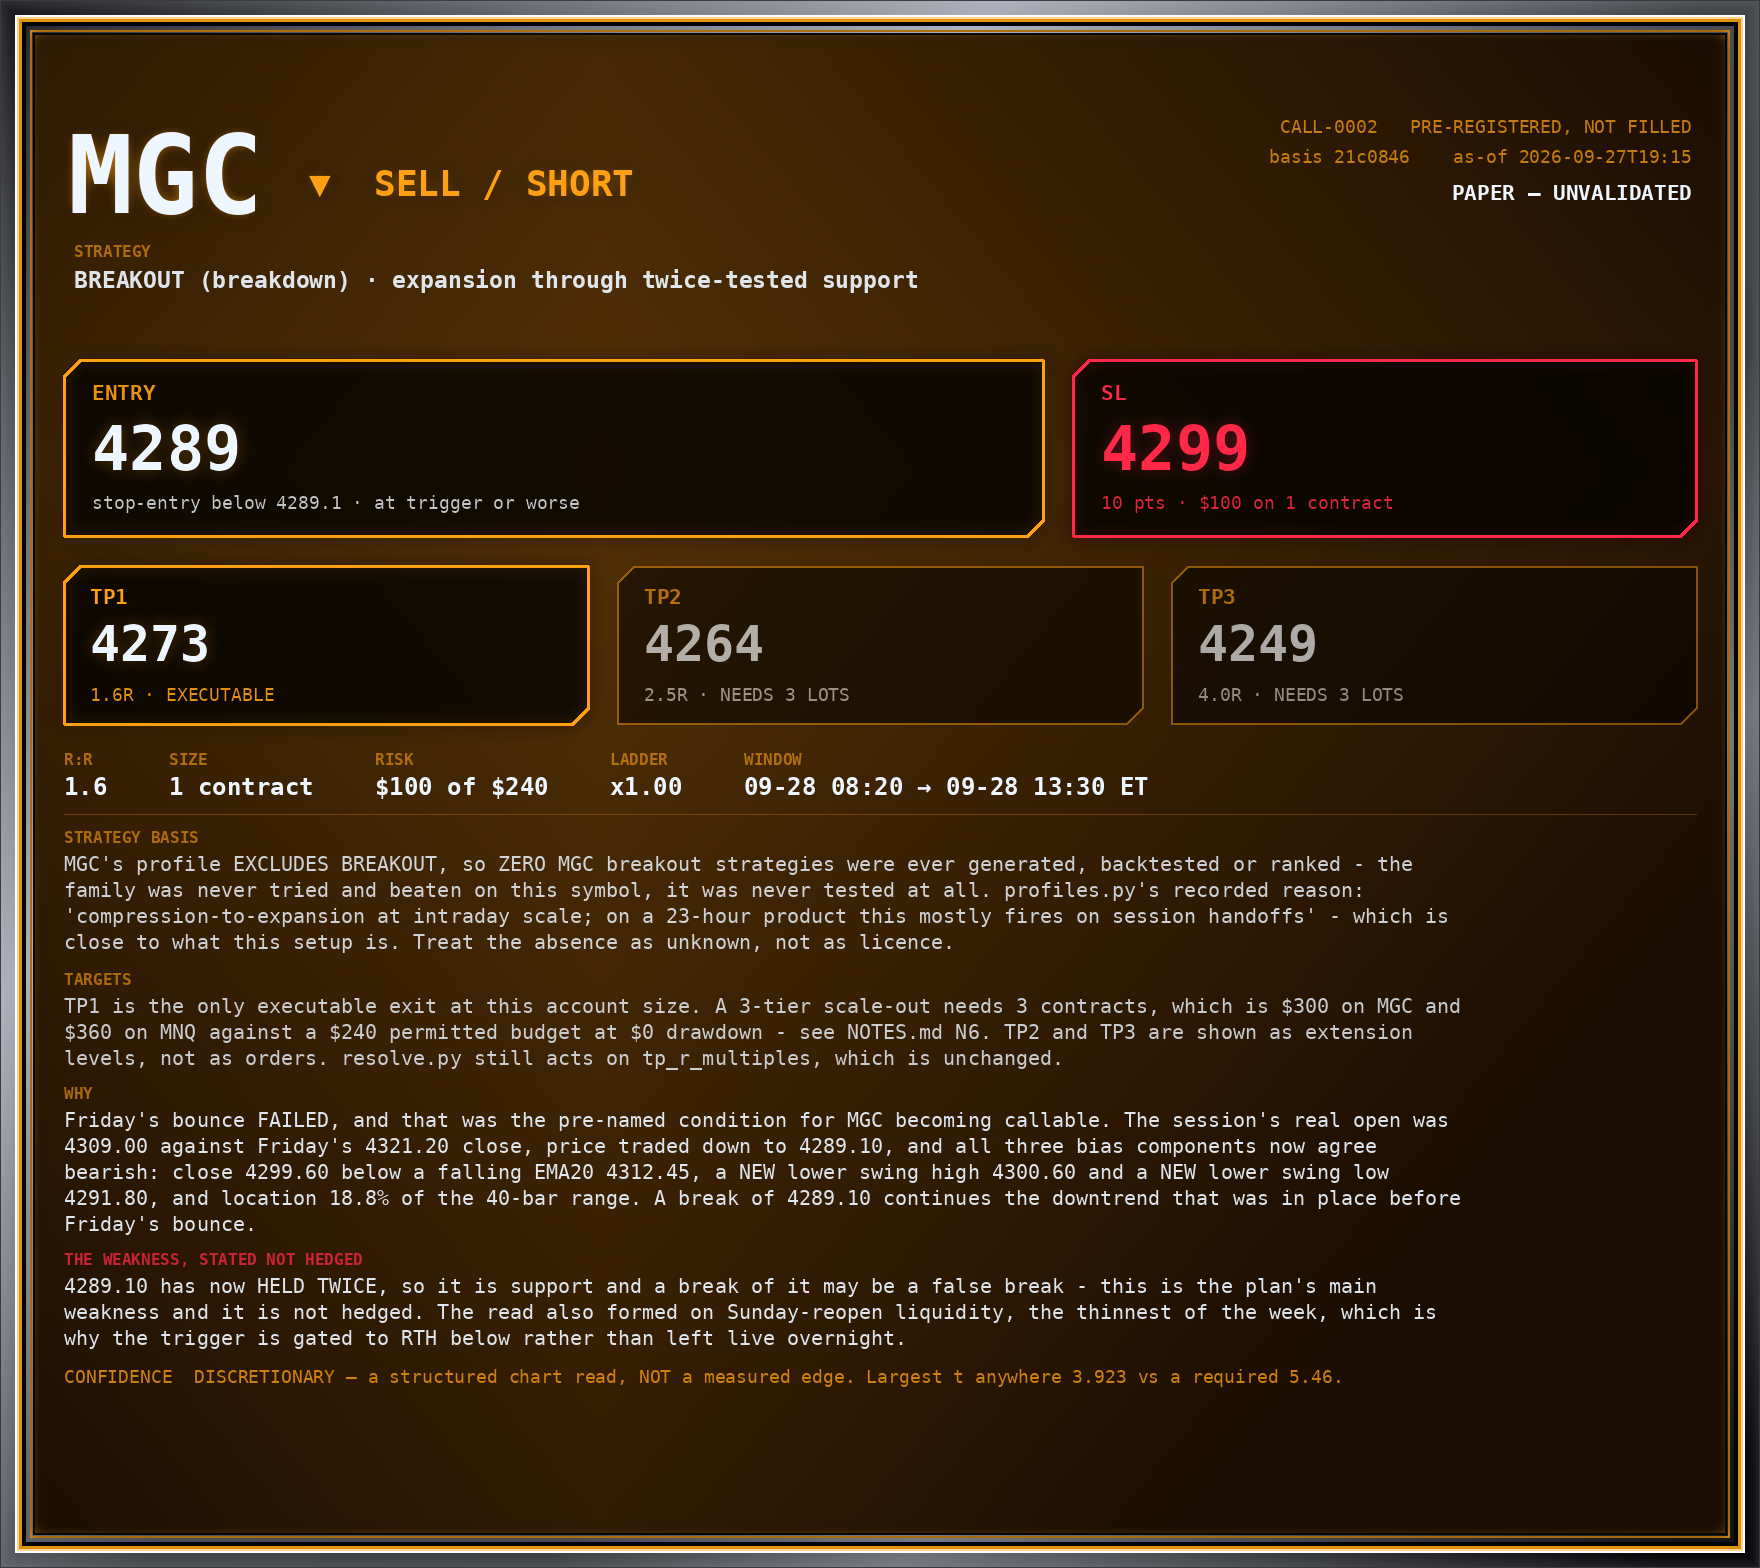
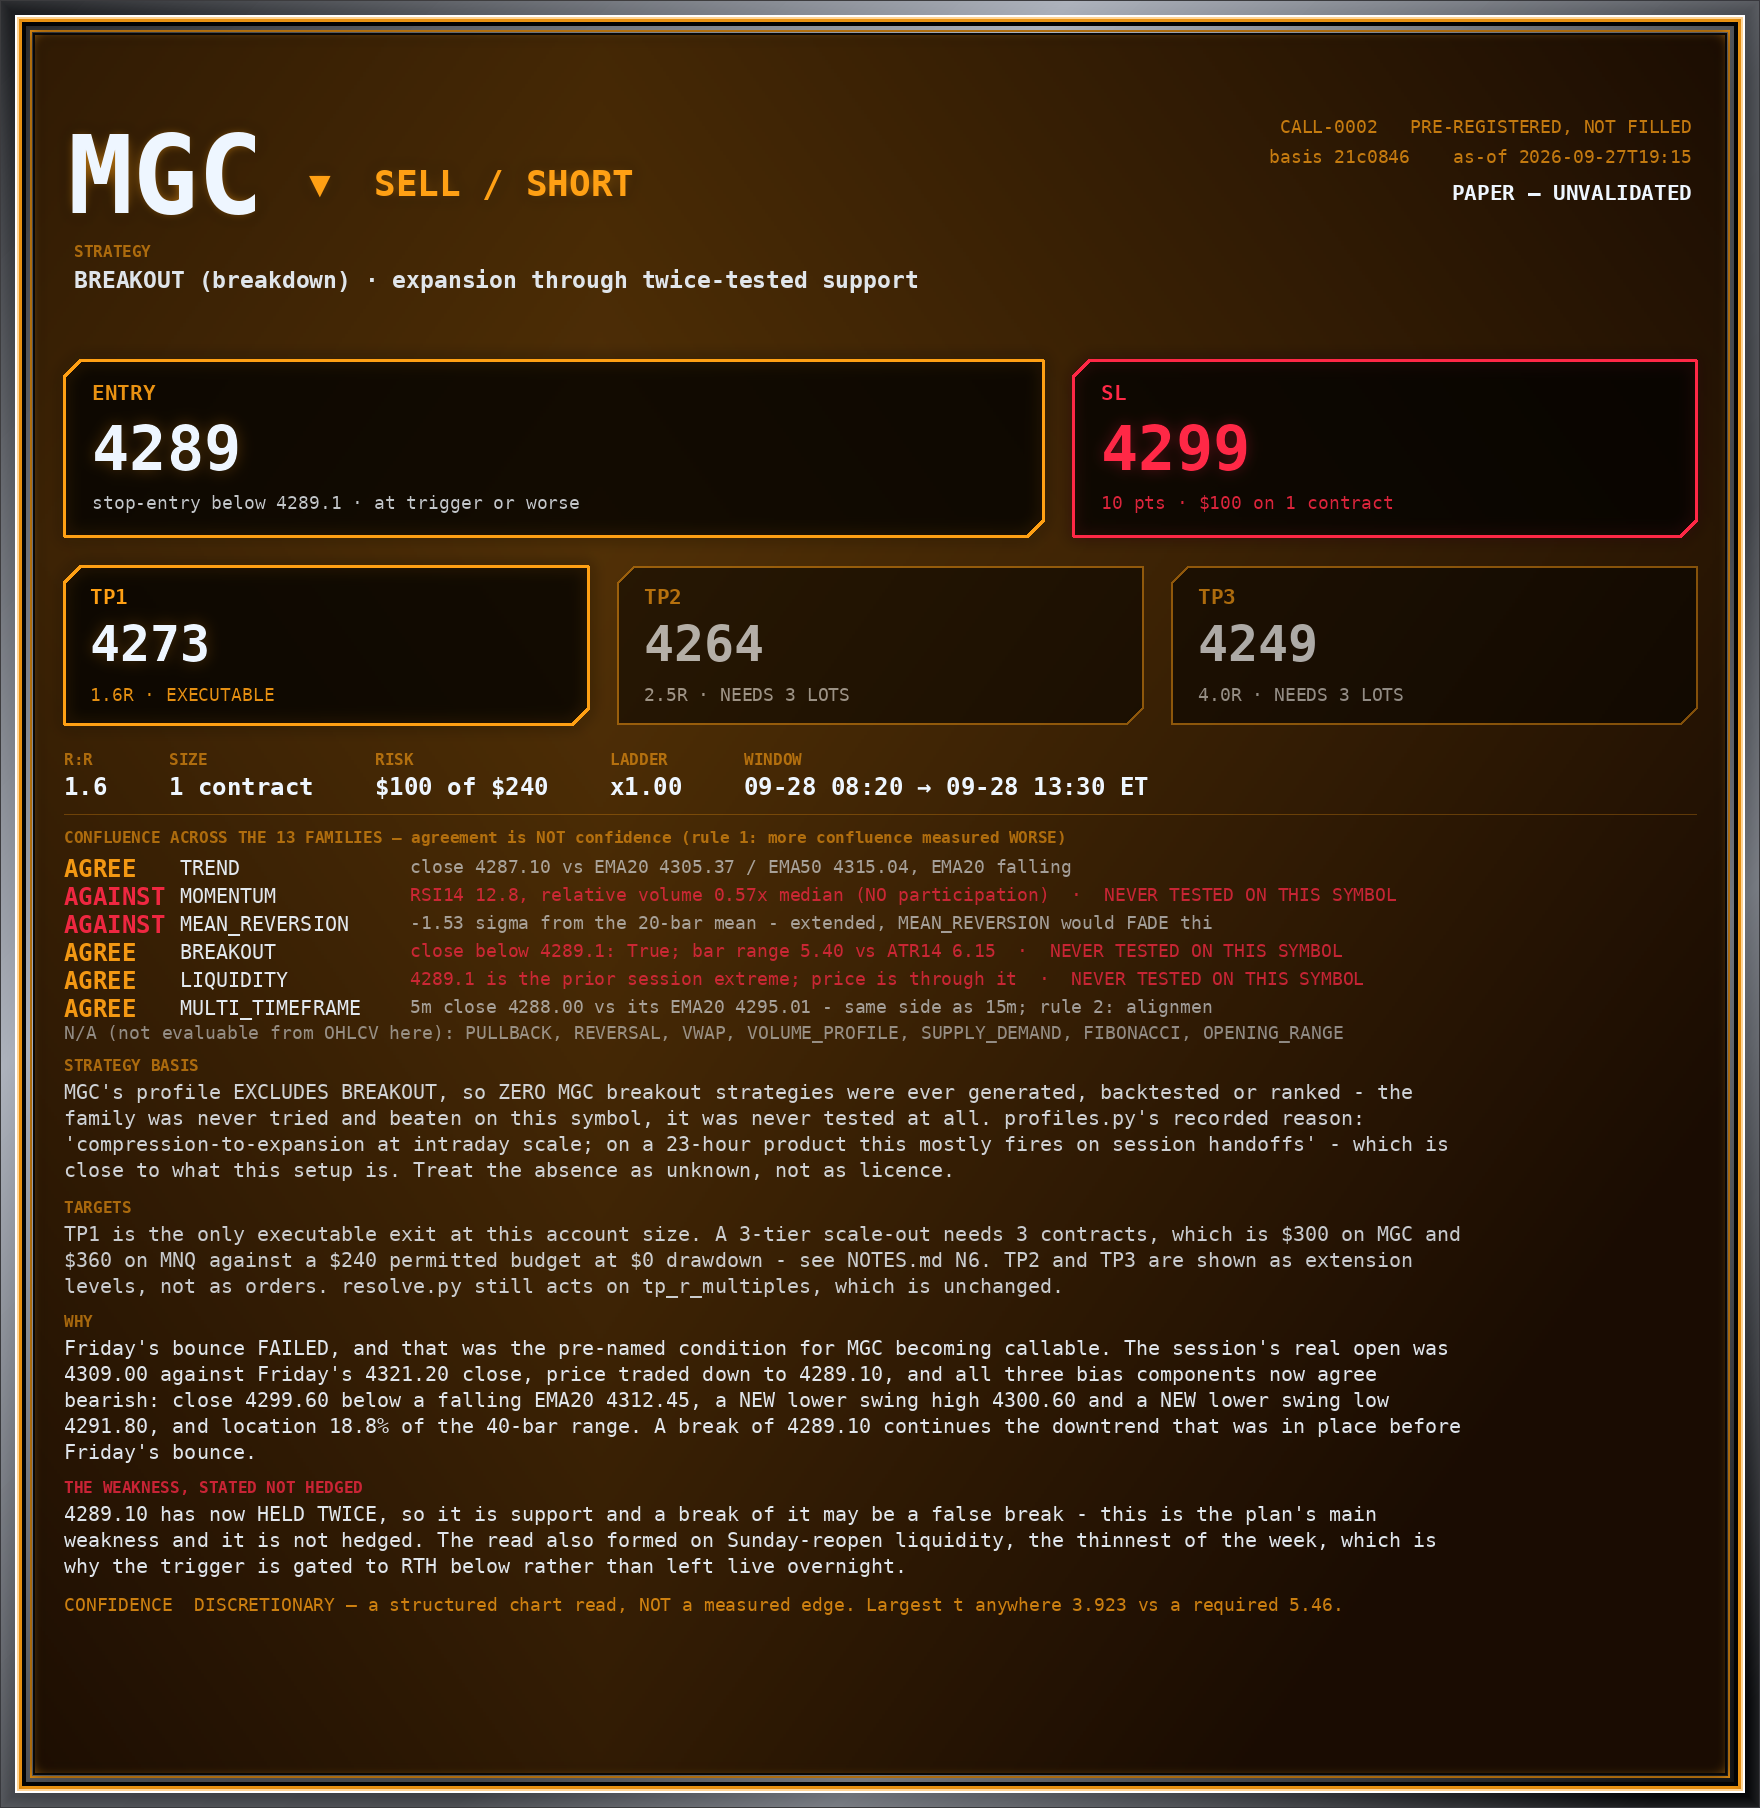
CALL desk: multi-family confluence, framed as disagreement - and it indicts CALL-0001
Owner asked for other strategies used as confluence. Built confluence.py, but
deliberately NOT as a confluence score, because a score inverts two of the
programme's settled findings: rule 1 measured 2->4 signals cutting trade count
35% with no expectancy gain, and rule 2 measured REQUIRING multi-timeframe
alignment as detectably worse than requiring none at z = -4.09. Counting
agreeing families and calling it confidence reads both backwards.

So it surfaces the opposite: which families CONTRADICT the setup, and which were
never tested on that symbol. Six families are computed from the bars; the other
seven return N/A with a reason rather than quietly counting as agreement.

It paid on the first run, against my own call. CALL-0001 MNQ LONG has FOUR of
six evaluable families against it - TREND, MOMENTUM, BREAKOUT, LIQUIDITY - and
all four are families MNQ's profile actually generates. Its two supporters are
MEAN_REVERSION, never tested on MNQ and only agreeing in the weak sense that
price is not extended, and MULTI_TIMEFRAME, which rule 2 says is not a virtue.
Discount both and the long has zero support and four named opponents.

CALL-0002 restricted to families tested on MGC is 1-1: TREND for,
MEAN_REVERSION against at -1.53 sigma, which would fade this exact break. Two of
its four supporters were never generated for MGC. MOMENTUM is against on BOTH
symbols for the same reason - relative volume 0.43x and 0.57x of median. Neither
break has participation.
[…]

diff --git a/workspace/paper/CALL/confluence.py b/workspace/paper/CALL/confluence.py
@@ -1,0 +1,182 @@
+#!/usr/bin/env python3
+"""Evaluate a setup against the 13 strategy families - to surface DISAGREEMENT, not to stack agreement.
+
+Owned by agent CALL.
+
+WHY THIS IS NOT A CONFLUENCE SCORE. `BRIEF.md` rule 1 measured that going from 2 signals
+to 4 cuts trade count 35% and does not improve expectancy - **more confluence is a worse
+trade**, not a safer one. Rule 2 measured that *requiring* multi-timeframe alignment was
+detectably worse than requiring none (z = -4.09). So counting families that agree and
+calling the total "confidence" would invert two of this programme's eight settled findings.
+
+What a multi-family read IS good for is the opposite: **finding the families that
+CONTRADICT the setup**, and naming the ones that were never tested on this symbol at all.
+A setup that MEAN_REVERSION would fade is a setup with a named opponent, and that is worth
+seeing. A family absent from a symbol's profile was never generated, never backtested and
+appears in no ranking (`STRATEGY_CATALOGUE.md` §1) - so its silence is a hole in the
+evidence, not a vote in favour.
+
+Every verdict below is computed from the bars or marked N/A with a reason. Nothing is
+asserted from memory, and a family this desk cannot evaluate from OHLCV says so rather
+than quietly counting as agreement.
+"""
+from __future__ import annotations
+
+import importlib.util
+import json
+import pathlib
+import sys
+
+HERE = pathlib.Path(__file__).resolve().parent
+sys.path.insert(0, str(HERE.parents[2]))
+
+_spec = importlib.util.spec_from_file_location("_rs", HERE / "resolve.py")
+_rs = importlib.util.module_from_spec(_spec)
+_spec.loader.exec_module(_rs)
+
+AGREE, AGAINST, NA = "AGREE", "AGAINST", "N/A"
+
+
+def ema(v, n):
+    k = 2.0 / (n + 1.0)
+    o = [v[0]]
+    for x in v[1:]:
+        o.append(x * k + o[-1] * (1 - k))
+    return o
+
+
+def rsi(closes, n=14):
+    if len(closes) < n + 1:
+        return 50.0
+    gains, losses = [], []
+    for i in range(1, len(closes)):
+        d = closes[i] - closes[i - 1]
+        gains.append(max(0.0, d))
+        losses.append(max(0.0, -d))
+    ag = sum(gains[-n:]) / n
+    al = sum(losses[-n:]) / n
+    return 100.0 if al == 0 else 100 - 100 / (1 + ag / al)
+
+
+def atr(rows, n=14):
+    trs = [max(rows[i]["h"] - rows[i]["l"], abs(rows[i]["h"] - rows[i - 1]["c"]),
+               abs(rows[i]["l"] - rows[i - 1]["c"])) for i in range(1, len(rows))]
+    return sum(trs[-n:]) / n if trs else 0.0
+
+
+def stdev(v):
+    m = sum(v) / len(v)
+    return (sum((x - m) ** 2 for x in v) / len(v)) ** 0.5
+
+
+def evaluate(symbol: str, side: str, level: float, frame: int = 15, n: int = 40) -> list[dict]:
+    """Return one row per family: verdict, the arithmetic behind it, and whether the
+    family was ever generated for this symbol."""
+    from futures_agents.strategies.profiles import SYMBOL_PROFILES
+
+    prof = SYMBOL_PROFILES.get(symbol)
+    tested = set(prof.groups) if prof is not None else set()
+    bars = _rs.load_bars(symbol, frame)[-max(n, 60):]
+    b5 = _rs.load_bars(symbol, 5)[-60:]
+    c = [x["c"] for x in bars]
+    e20, e50 = ema(c, 20), ema(c, 50)
+    a = atr(bars)
+    last, prev = bars[-1], bars[-2]
+    short = side == "SHORT"
+    sgn = -1 if short else 1
+    vols = [x["v"] for x in bars if x["v"] > 0]
+    medv = sorted(vols)[len(vols) // 2] if vols else 0.0
+    r = rsi(c)
+    win = c[-20:]
+    sd = stdev(win)
+    mid = sum(win) / len(win)
+    rows = []
+
+    def add(fam, verdict, why):
+        rows.append({"family": fam, "verdict": verdict, "why": why,
+                     "tested": fam in tested})
+
+    # TREND - price against EMA20/50 and their slope
+    below20, below50 = c[-1] < e20[-1], c[-1] < e50[-1]
+    falling = e20[-1] < e20[-6]
+    ok = (below20 and below50 and falling) if short else ((not below20) and (not below50) and not falling)
+    add("TREND", AGREE if ok else AGAINST,
+        f"close {c[-1]:.2f} vs EMA20 {e20[-1]:.2f} / EMA50 {e50[-1]:.2f}, "
+        f"EMA20 {'falling' if falling else 'rising'}")
+
+    # MOMENTUM - requires participation as well as direction
+    relv = (last["v"] / medv) if medv else 0.0
+    mom_dir = (r < 45) if short else (r > 55)
+    add("MOMENTUM", AGREE if (mom_dir and relv >= 1.0) else AGAINST,
+        f"RSI14 {r:.1f}, relative volume {relv:.2f}x median "
+        f"({'participation present' if relv >= 1.0 else 'NO participation'})")
+
+    # MEAN_REVERSION - the named opponent: it fades what a breakout buys
+    z = (c[-1] - mid) / sd if sd else 0.0
+    add("MEAN_REVERSION", AGAINST if (z < -1.0 if short else z > 1.0) else AGREE,
+        f"{z:+.2f} sigma from the 20-bar mean - "
+        f"{'extended, MEAN_REVERSION would FADE this' if abs(z) > 1.0 else 'not extended'}")
+
+    # BREAKOUT - expansion through the level
+    rng = last["h"] - last["l"]
+    beyond = c[-1] < level if short else c[-1] > level
+    add("BREAKOUT", AGREE if (beyond and rng > a * 0.6) else AGAINST,
+        f"close {'below' if short else 'above'} {level:g}: {beyond}; "
+        f"bar range {rng:.2f} vs ATR14 {a:.2f}")
+
+    # LIQUIDITY - is the level a prior-session extreme being swept
+    add("LIQUIDITY", AGREE if beyond else AGAINST,
+        f"{level:g} is the prior session extreme; price is "
+        f"{'through it' if beyond else 'not through it'}")
+
+    # MULTI_TIMEFRAME - 5m against 15m. Rule 2: agreement here is NOT a virtue.
+    c5 = [x["c"] for x in b5]
+    e5 = ema(c5, 20)
+    agree5 = (c5[-1] < e5[-1]) == short
+    add("MULTI_TIMEFRAME", AGREE if agree5 else AGAINST,
+        f"5m close {c5[-1]:.2f} vs its EMA20 {e5[-1]:.2f} - "
+        f"{'same side as 15m' if agree5 else 'OPPOSES 15m'}; rule 2: alignment is not a virtue")
+
+    for fam, why in (
+        ("PULLBACK", "entry is a level break, not a retracement entry - different setup"),
+        ("REVERSAL", "requires orderflow, which is a PROXY here: no delta or tick data"),
+        ("VWAP", "session VWAP not computed by this desk; daily VWAP is D52-degenerate"),
+        ("VOLUME_PROFILE", "no prior-session volume distribution built by this desk"),
+        ("SUPPLY_DEMAND", "no zone model built by this desk"),
+        ("FIBONACCI", "no confirmed leg measured by this desk"),
+        ("OPENING_RANGE", "outside RTH, and D30/D31 make it unconstructable at 60m/240m"),
+    ):
+        add(fam, NA, why)
+    return rows
+
+
+def summary(rows):
+    ag = [r for r in rows if r["verdict"] == AGREE]
+    ag_ = [r for r in rows if r["verdict"] == AGAINST]
+    na = [r for r in rows if r["verdict"] == NA]
+    untested = [r["family"] for r in rows if r["verdict"] != NA and not r["tested"]]
+    return {"agree": [r["family"] for r in ag], "against": [r["family"] for r in ag_],
+            "na": [r["family"] for r in na], "untested_on_symbol": untested}
+
+
+def main() -> int:
+    plans = {json.loads(l)["call_id"]: json.loads(l)
+             for l in (HERE / "pending.jsonl").read_text().splitlines() if l.strip()}
+    for cid in (sys.argv[1:] or list(plans)):
+        p = plans[cid]
+        rows = evaluate(p["symbol"], p["side"], p["trigger_price"])
+        s = summary(rows)
+        print(f"\n=== {cid}  {p['symbol']} {p['side']}  trigger {p['trigger_price']} ===")
+        for r in rows:
+            if r["verdict"] == NA:
+                continue
+            flag = "" if r["tested"] else "   [NEVER TESTED ON THIS SYMBOL]"
+            print(f"  {r['verdict']:8s} {r['family']:17s} {r['why']}{flag}")
+        print(f"  N/A: {', '.join(s['na'])}")
+        print(f"  -> agree {len(s['agree'])}, against {len(s['against'])}. "
+              f"Agreement is NOT confidence (rule 1).")
+    return 0
+
+
+if __name__ == "__main__":
+    raise SystemExit(main())

diff --git a/workspace/paper/CALL/card_png.py b/workspace/paper/CALL/card_png.py
@@ -271,7 +271,7 @@ def render(plan: dict, out: pathlib.Path) -> pathlib.Path:
     weak = trim(plan.get("invalidation", ""), 116, 3)
 
     W = 1760
-    H = 1130 + (len(why) + len(weak)) * 26 + 230   # strategy header + basis block
+    H = 1130 + (len(why) + len(weak)) * 26 + 470   # + confluence panel   # strategy header + basis block
     img = backdrop(W, H, side).convert("RGBA")
     # content is composed at interior size, then mounted in the bezel below
     glow = Image.new("RGBA", (W, H), (0, 0, 0, 0))
@@ -364,6 +364,34 @@ def render(plan: dict, out: pathlib.Path) -> pathlib.Path:
     # ---- reasoning
     by = sy + 78
     d.line([PAD, by - 14, W - PAD, by - 14], fill=(*las, 70), width=1)
+    # ---- confluence: computed, and framed as DISAGREEMENT rather than a score
+    try:
+        import importlib.util as _iu
+        _cs = _iu.spec_from_file_location("_cf", HERE / "confluence.py")
+        _cf = _iu.module_from_spec(_cs)
+        _cs.loader.exec_module(_cf)
+        crows = _cf.evaluate(plan["symbol"], plan["side"], plan["trigger_price"])
+    except Exception:
+        crows = []
+    if crows:
+        d.text((PAD, by), "CONFLUENCE ACROSS THE 13 FAMILIES — agreement is NOT confidence "
+                          "(rule 1: more confluence measured WORSE)", font=fkl, fill=(*las, 150))
+        by += 26
+        for r in crows:
+            if r["verdict"] == "N/A":
+                continue
+            col = (*las, 240) if r["verdict"] == "AGREE" else (*RED, 235)
+            d.text((PAD, by), f"{r['verdict']:8s}", font=fkv, fill=col)
+            d.text((PAD + 116, by + 2), r["family"], font=fbody, fill=(*WHITE, 238))
+            tag = "" if r["tested"] else "  ·  NEVER TESTED ON THIS SYMBOL"
+            d.text((PAD + 116 + 230, by + 2), r["why"][:74] + tag, font=fmeta,
+                   fill=(*WHITE, 150) if r["tested"] else (*RED, 185))
+            by += 28
+        na = ", ".join(r["family"] for r in crows if r["verdict"] == "N/A")
+        d.text((PAD, by), f"N/A (not evaluable from OHLCV here): {na}", font=fmeta,
+               fill=(*WHITE, 130))
+        by += 34
+
     sb = plan.get("strategy_basis", "")
     if sb:
         d.text((PAD, by), "STRATEGY BASIS", font=fkl, fill=(*las, 150))

diff --git a/workspace/paper/CALL/NOTES.md b/workspace/paper/CALL/NOTES.md
@@ -346,3 +346,46 @@ being retro-fitted now.
 **Also this check: MNQ's headline went CONFLICTED (1-1)** — its location component crossed to BULL
 at 61.5% of range. First non-bearish headline of the evening, and a third instance of N9's finding
 that these readings do not sit still.
+
+## N11 — multi-family confluence, built to surface DISAGREEMENT, and it immediately found four families against CALL-0001
+
+**basis: 5808aa1, 2026-09-27 20:40 ET.** The account owner asked for other strategies used as
+confluence. Built as `confluence.py`, but **not** as a confluence score, because a score would
+invert two of the programme's eight settled findings:
+
+- **Rule 1**: going from 2 signals to 4 cuts trade count 35% with no expectancy gain. **More
+  confluence is a worse trade**, not a safer one.
+- **Rule 2**: *requiring* multi-timeframe alignment measured detectably **worse** than requiring
+  none, z = −4.09.
+
+So counting agreeing families and calling the total "confidence" would be reading both results
+backwards. What a multi-family read is genuinely good for is the opposite: **naming the families
+that contradict the setup**, and naming the ones never tested on that symbol. Every verdict is
+computed from the bars; a family this desk cannot evaluate from OHLCV says `N/A` with a reason
+rather than quietly counting as agreement.
+
+**It paid immediately, and the finding is unflattering to my own call.**
+
+| | CALL-0001 MNQ LONG | CALL-0002 MGC SHORT |
+|---|---|---|
+| AGREE | MEAN_REVERSION*, MULTI_TIMEFRAME | TREND, BREAKOUT*, LIQUIDITY*, MULTI_TIMEFRAME |
+| **AGAINST** | **TREND, MOMENTUM, BREAKOUT, LIQUIDITY** | **MOMENTUM*, MEAN_REVERSION** |
+
+`*` = never generated for that symbol, so its verdict rests on no evidence at all.
+
+**On `CALL-0001`, four of the six evaluable families oppose the trade**, and all four are families
+MNQ's profile *does* generate. Its two supporters are MEAN_REVERSION — which was never tested on
+MNQ and is only "agreeing" in the weak sense that price is not extended — and MULTI_TIMEFRAME,
+which rule 2 explicitly says is not a virtue. **Discount both and the long has zero support and
+four named opponents.** That is a materially worse picture than the card showed an hour ago, and it
+did not come from a new opinion; it came from asking the other twelve families.
+
+**On `CALL-0002`, restrict to families actually tested on MGC and the score is 1–1**: TREND agrees,
+MEAN_REVERSION disagrees (−1.53 sigma, extended — it would fade this exact break), with
+MULTI_TIMEFRAME rule-2-discounted. Two of its four supporters, BREAKOUT and LIQUIDITY, were never
+generated for MGC. And **MOMENTUM is against on both symbols for the same reason**: relative volume
+0.43× and 0.57× of median. Neither break has participation.
+
+**Both plans stay unmodified.** This is information about pre-registered hypotheses, not licence to
+edit them (N8). What it does change is what the cards say: the opposition is now on their face, in
+red, rather than living in a single confident STRATEGY line.
